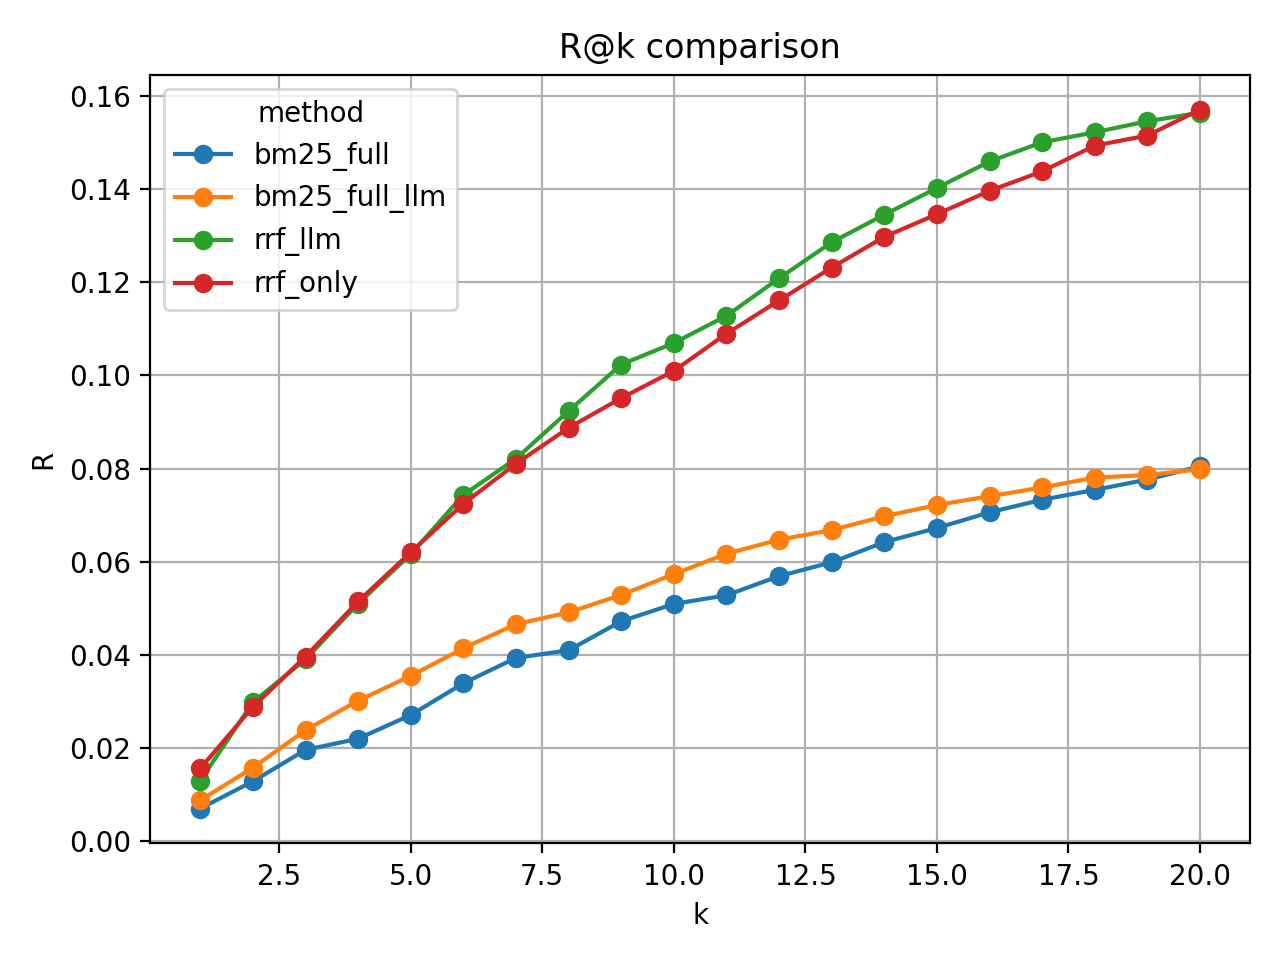
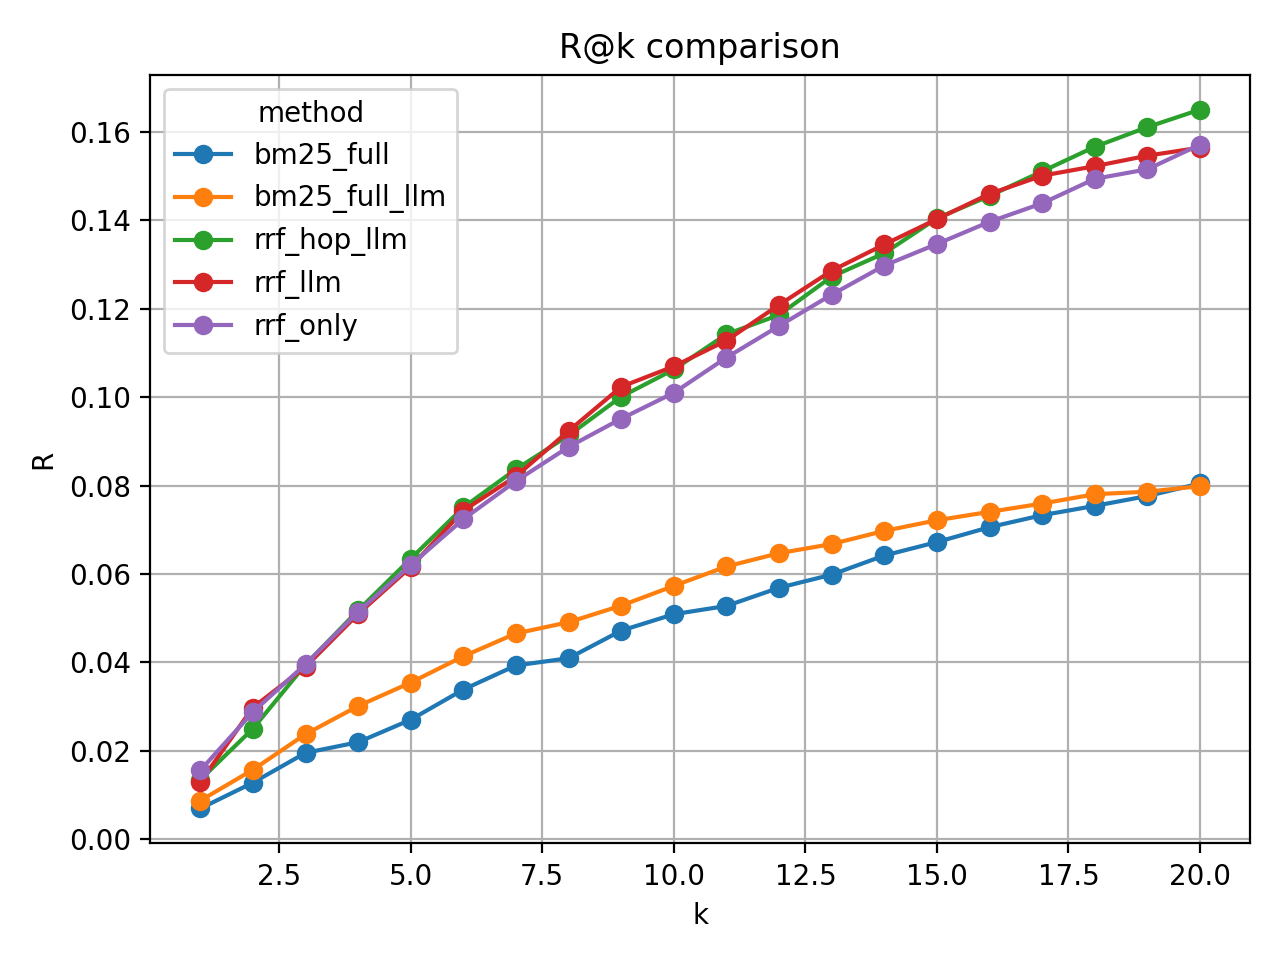
Added hop analysis

diff --git a/main/llm/eval_hop_analysis.py b/main/llm/eval_hop_analysis.py
@@ -1,0 +1,197 @@
+# eval_rrf_llm_hop.py  (20 RRF seeds → hop → LLM top-20)
+
+from __future__ import annotations
+import os, math, logging
+from pathlib import Path
+from typing import List, Optional
+
+import numpy as np
+import pandas as pd
+import matplotlib
+matplotlib.use("Agg")
+import matplotlib.pyplot as plt
+from transformers import AutoTokenizer
+
+from chunking import clean_text, chunk_tokens
+from recall   import (
+    recall_fulltext,
+    recall_vector,
+    recall_by_chunks,
+    rrf_fuse,
+    fetch_metadata,
+    embed,
+)
+from rerank_llm    import rerank_batch, RerankError
+from hop_reasoning import multi_hop_topic_citation_reasoning   # <<< hop >>>
+
+# config
+TESTSET_PATH = Path(os.getenv(
+    "TESTSET_PATH",
+    "/home/abhi/Desktop/Manami/recommender-system/datasets/testset_2020_references.jsonl"))
+MAX_CASES  = int(os.getenv("MAX_CASES", 5))
+TOPK_LIST  = tuple(range(1, 21))
+SIM_THRESH = 0.95
+
+RRF_TOPK       = 20  # keep top 20 seeds after RRF fusion
+# HOP_TOP_N      = 3   # retrieve up to 20 hop papers per seed
+FINAL_POOL_CAP = 60  # cap total pool size before final LLM
+LLM_TOPK       = 20  # final list size
+
+TOKENIZER = AutoTokenizer.from_pretrained(
+    "meta-llama/Meta-Llama-3.1-8B-Instruct", use_fast=True)
+
+# cosin similarity 
+def cosine_matrix(a: np.ndarray, b: np.ndarray) -> np.ndarray:
+    return a @ b.T
+
+# 
+def evaluate_case(
+    paragraph: str,
+    gold_pids: List[str],
+    hop_top_n: int,                      # required first
+    target_year: Optional[int] = None,   # defaulted second
+) -> dict:
+
+    # take the raw paragraph, clean it (lower-casing, removing punctuation/stopwords, etc.), 
+    # so that BM25 and embeddings both work on normalized text.
+    clean = clean_text(paragraph)
+    chunks = chunk_tokens(clean, TOKENIZER, win=256, stride=64)
+
+    # recall & fuse with reciprocal rank fusion (RRF)
+    # full-text & vector for whole paragraph
+    bm25 = recall_fulltext(clean).assign(src="full_bm25")
+    vec  = recall_vector(embed(clean)).assign(src="full_vec")
+    chunk_pool = recall_by_chunks(chunks)
+
+    # apply RRF fusion across all sources
+    # full-doc scores (bm25_score, semantic_score) → hybrid_full
+    # chunk-level max scores → hybrid_chunk
+    # Total hybrid_score = hybrid_full + hybrid_chunk
+    # strip out any extraneous columns so rrf_fuse sees just pid & rank
+    # strip everything except pid & rank on the two full-doc tables
+    for df in (bm25, vec):
+        df.drop(columns=[c for c in df.columns if c not in ("pid", "rank")], inplace=True)
+
+    seeds_df = rrf_fuse(bm25, vec, chunk_pool, top_k=RRF_TOPK)
+    seed_ids = seeds_df.pid.tolist()
+
+    # this is hop expansions
+    hop_df    = multi_hop_topic_citation_reasoning(seed_ids, top_n=hop_top_n)
+    union_ids = list(dict.fromkeys(seed_ids + hop_df.pid.tolist()))[:FINAL_POOL_CAP]  # <<< hop >>>
+    meta_pool = fetch_metadata(union_ids).dropna(subset=["abstract"])
+    if target_year is not None:
+        meta_pool = meta_pool[meta_pool.year < target_year]
+
+    #  rerank via LLM scoring
+    try:
+        reranked = rerank_batch(
+            paragraph,
+            meta_pool[["pid", "title", "abstract"]],
+            k=LLM_TOPK,
+            max_candidates=len(meta_pool))
+        final_ids = reranked.pid.tolist()
+    except RerankError as e:
+        logging.warning("LLM rerank failed → fallback order (%s)", e)
+        final_ids = meta_pool.pid.head(LLM_TOPK).tolist()
+
+    # embed references & predicted candidates
+    # Calculates cosine similarities between reranked abstracts and true references.
+    # For each predicted paper, checks if any unmatched reference has sim ≥ 0.95 → it's a hit.
+    refs     = fetch_metadata(gold_pids).dropna(subset=["abstract"])
+    ref_ids  = refs.pid.tolist()
+    ref_emb  = np.stack([embed(a) for a in refs.abstract]) if ref_ids else np.zeros((0,768))
+    cand_emb = np.stack([embed(a) for a in meta_pool.set_index("pid").loc[final_ids].abstract])
+
+    # greedy match for hit detection
+    sims = cosine_matrix(cand_emb, ref_emb) if ref_ids else np.zeros((len(final_ids),0))
+    unmatched, hits = set(range(len(ref_ids))), []
+    for i in range(len(final_ids)):
+        if not unmatched: hits.append(False); continue
+        idxs = list(unmatched)
+        j = sims[i, idxs].argmax()
+        if sims[i, idxs][j] >= SIM_THRESH:
+            hits.append(True); unmatched.remove(idxs[j])
+        else:
+            hits.append(False)
+
+    # https://www.evidentlyai.com/ranking-metrics/evaluating-recommender-systems    
+    # P@k  = # relevant hits in top-k / k
+    # HR@k = # whether at least one hit in top-k
+    # R@k  = # hits / total ground-truth
+    # NDCG = # relevance-weighted discounted ranking quality
+    out, n_rel = {}, len(ref_ids)
+    for k in TOPK_LIST:
+        topk = hits[:k]
+        out[f"P@{k}"]  = sum(topk)/k
+        out[f"HR@{k}"] = float(any(topk))
+        out[f"R@{k}"]  = sum(topk)/n_rel if n_rel else 0.0
+        dcg  = sum(r/math.log2(i+2) for i,r in enumerate(topk))
+        idcg = sum(1/math.log2(i+2) for i in range(min(n_rel,k)))
+        out[f"NDCG@{k}"] = dcg/idcg if idcg else 0.0
+    return out
+
+import matplotlib
+matplotlib.use("Agg")          # off-screen backend
+
+def main() -> None:
+    logging.basicConfig(level=logging.INFO, format="%(levelname)s: %(message)s")
+
+    # load your testset
+    df = pd.read_json(TESTSET_PATH, lines=True).head(MAX_CASES)
+
+    hop_values = [1, 3, 5, 10]      # hop limits to compare
+    sweep_rows = []
+
+    for hop_n in hop_values:
+        # run evaluation for each paragraph with this hop_n
+        rows = []
+        for rec in df.to_dict("records"):
+            m = evaluate_case(
+                rec["paragraph"],
+                [str(pid) for pid in rec.get("references", [])],  # gold_pids
+                hop_n,                                             # hop_top_n
+                rec.get("year")                                    # target_year
+                )
+            rows.append(m)
+
+        metrics_df = pd.DataFrame(rows)
+        avg = metrics_df.mean(numeric_only=True)
+
+        sweep_rows.append({
+            "hop_n":   hop_n,
+            "P@20":    avg["P@20"],
+            "HR@20":   avg["HR@20"],
+            "R@20":    avg["R@20"],
+            "NDCG@20": avg["NDCG@20"],
+        })
+
+        print(f"\n=== hop_n = {hop_n} average ===")
+        print(avg[["P@20","HR@20","R@20","NDCG@20"]].round(4))
+
+    # compile sweep results
+    sweep_df = pd.DataFrame(sweep_rows).set_index("hop_n")
+
+    # save CSV
+    csv_dir = Path(__file__).parent / "csv"
+    csv_dir.mkdir(exist_ok=True)
+    sweep_df.to_csv(csv_dir / "metrics_hop_sweep.csv")
+
+    # plot each metric vs hop_n
+    eval_dir = Path(__file__).parent / "eval"
+    eval_dir.mkdir(exist_ok=True)
+
+    for metric in ["P@20","HR@20","R@20","NDCG@20"]:
+        plt.figure()
+        plt.plot(sweep_df.index, sweep_df[metric], marker="o")
+        plt.title(f"{metric} vs hop_n")
+        plt.xlabel("hop_n")
+        plt.ylabel(metric)
+        plt.grid(True)
+        plt.tight_layout()
+
+        fname = metric.lower().replace("@", "_at_") + "_vs_hop.png"
+        plt.savefig(eval_dir / fname, dpi=200)
+        plt.close()
+
+if __name__ == "__main__":
+    main()

diff --git a/main/llm/merge_system.py b/main/llm/merge_system.py
@@ -1,0 +1,49 @@
+import pandas as pd
+import matplotlib.pyplot as plt
+
+# 1) load all CSVs
+files = [
+    "metrics_bm25_full.csv",
+    "metrics_bm25_full_llm.csv",
+    "metrics_rrf.csv",
+    "metrics_rrf_llm.csv",
+    # "metrics_rrf_hop_llm.csv",
+]
+dfs = [pd.read_csv(f"./csv/{fn}") for fn in files]
+
+# 2) concatenate
+all_df = pd.concat(dfs, ignore_index=True)
+
+# 3) compute average per method & k
+#    melt so you have columns: method, metric, k, value
+melted = all_df.melt(
+    id_vars=["method"], 
+    var_name="metric_at_k", 
+    value_name="value"
+)
+
+# split metric_at_k into metric and k
+melted[["metric","k"]] = melted["metric_at_k"].str.split("@", expand=True)
+melted["k"] = melted["k"].astype(int)
+
+# 4) pivot so rows are k, columns are methods, values are average precision
+for metric in ["P","R","HR","NDCG"]:
+    dfm = (
+        melted[melted.metric==metric]
+        .groupby(["k","method"])["value"]
+        .mean()
+        .reset_index()
+        .pivot(index="k", columns="method", values="value")
+    )
+    plt.figure()
+    dfm.plot(marker="o", ax=plt.gca())
+    plt.title(f"{metric}@k comparison")
+    plt.xlabel("k")
+    plt.ylabel(metric)
+    plt.grid(True)
+    plt.tight_layout()
+    plt.savefig(f"./eval/{metric.lower()}_all_methods.png", dpi=200)
+    plt.close()
+
+
+

diff --git a/main/llm/merge_hop.py b/main/llm/merge_hop.py
@@ -3,11 +3,8 @@ import matplotlib.pyplot as plt
 
 # 1) load all CSVs
 files = [
-    "metrics_bm25_full.csv",
-    "metrics_bm25_full_llm.csv",
-    "metrics_rrf.csv",
-    "metrics_rrf_llm.csv",
-    # "metrics_bm25_hop_rerank.csv",
+    "metrics_rrf_hop_llm.csv",
+    "metrics_rrf_hop_llm.csv",
 ]
 dfs = [pd.read_csv(f"./csv/{fn}") for fn in files]
 
